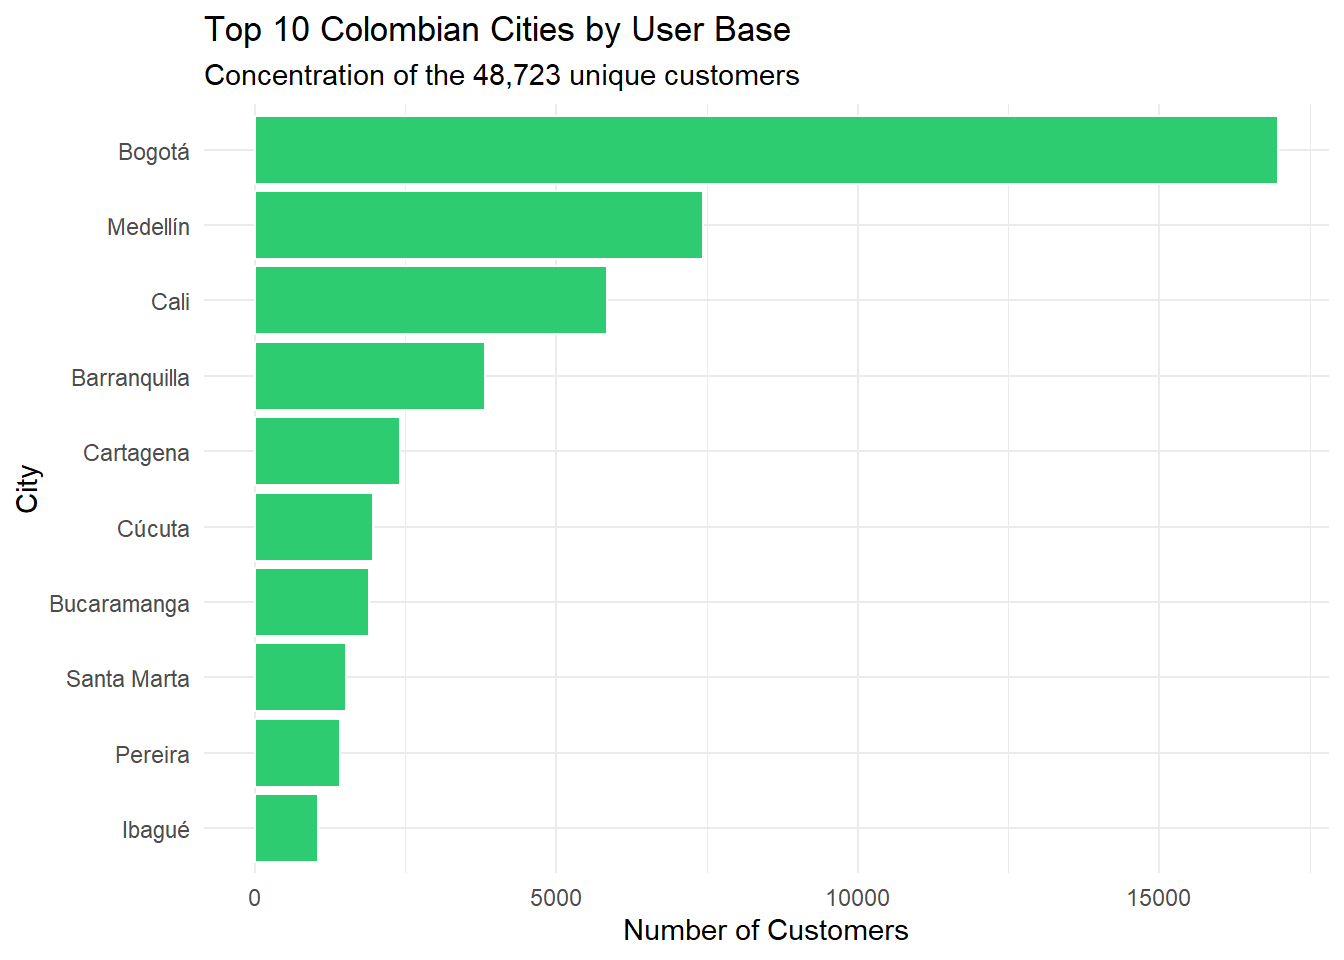
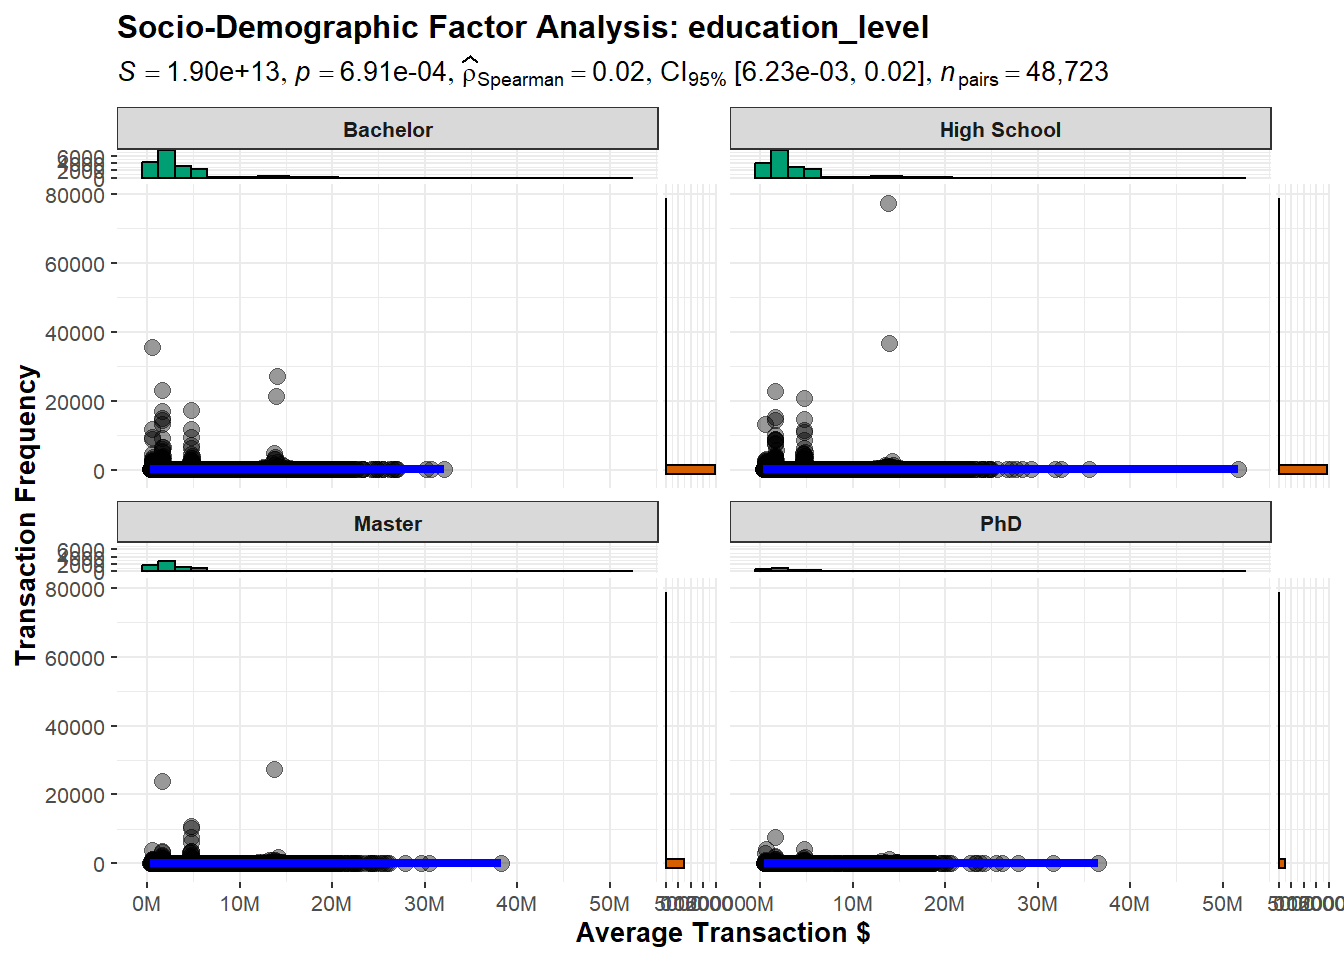
take-home exercise 02

diff --git a/_site/Take-home_ex/take-home_exercise02/take-home_exercise02.html b/_site/Take-home_ex/take-home_exercise02/take-home_exercise02.html
@@ -217,7 +217,12 @@ pre > code.sourceCode > span > a:first-child::before { text-decoration: underlin
   <li><a href="#our-data" id="toc-our-data" class="nav-link" data-scroll-target="#our-data">Our Data</a></li>
   <li><a href="#data-preparation" id="toc-data-preparation" class="nav-link" data-scroll-target="#data-preparation">Data Preparation</a></li>
   </ul></li>
-  <li><a href="#section" id="toc-section" class="nav-link" data-scroll-target="#section"></a></li>
+  <li><a href="#correlation" id="toc-correlation" class="nav-link" data-scroll-target="#correlation">Correlation</a>
+  <ul class="collapse">
+  <li><a href="#analyzing-how-education-level-affects-the-transaction-amount-vs.-frequency-behavior" id="toc-analyzing-how-education-level-affects-the-transaction-amount-vs.-frequency-behavior" class="nav-link" data-scroll-target="#analyzing-how-education-level-affects-the-transaction-amount-vs.-frequency-behavior">Analyzing how <em>Education Level</em> affects the Transaction Amount vs.&nbsp;Frequency behavior</a></li>
+  <li><a href="#analyzing-how-marital-status-affects-the-transaction-amount-vs.-frequency-behavior" id="toc-analyzing-how-marital-status-affects-the-transaction-amount-vs.-frequency-behavior" class="nav-link" data-scroll-target="#analyzing-how-marital-status-affects-the-transaction-amount-vs.-frequency-behavior">Analyzing how <em>Marital Status</em> affects the Transaction Amount vs.&nbsp;Frequency behavior</a></li>
+  <li><a href="#analyzing-how-gender-affects-the-transaction-amount-vs.-frequency-behavior" id="toc-analyzing-how-gender-affects-the-transaction-amount-vs.-frequency-behavior" class="nav-link" data-scroll-target="#analyzing-how-gender-affects-the-transaction-amount-vs.-frequency-behavior">Analyzing how <em>Gender</em> affects the Transaction Amount vs.&nbsp;Frequency behavior</a></li>
+  </ul></li>
   </ul>
 </nav>
     </div>
@@ -309,12 +314,81 @@ pre > code.sourceCode > span > a:first-child::before { text-decoration: underlin
 <span id="cb1-17"><a href="#cb1-17" aria-hidden="true" tabindex="-1"></a>  <span class="fu">mutate</span>(<span class="at">date =</span> <span class="fu">as.Date</span>(date, <span class="at">format =</span> <span class="st">"%m/%d/%Y"</span>)) <span class="sc">%&gt;%</span></span>
 <span id="cb1-18"><a href="#cb1-18" aria-hidden="true" tabindex="-1"></a>  <span class="fu">left_join</span>(customers, <span class="at">by =</span> <span class="st">"customer_id"</span>)</span></code></pre></div><button title="Copy to Clipboard" class="code-copy-button"><i class="bi"></i></button></div>
 </div>
+<p>The code chunk below will be used to install and load these packages in RStudio.</p>
+<div class="cell">
+<div class="code-copy-outer-scaffold"><div class="sourceCode cell-code" id="cb2"><pre class="sourceCode r code-with-copy"><code class="sourceCode r"><span id="cb2-1"><a href="#cb2-1" aria-hidden="true" tabindex="-1"></a>pacman<span class="sc">::</span><span class="fu">p_load</span>(<span class="st">"ggstatsplot"</span>, <span class="st">"plotly"</span>, <span class="st">"DT"</span>, <span class="st">"scales"</span>,<span class="st">"tidyverse"</span>)</span></code></pre></div><button title="Copy to Clipboard" class="code-copy-button"><i class="bi"></i></button></div>
+</div>
 </section>
 </section>
-<section id="section" class="level1">
-<h1></h1>
+<section id="correlation" class="level1">
+<h1>Correlation</h1>
+<section id="analyzing-how-education-level-affects-the-transaction-amount-vs.-frequency-behavior" class="level2">
+<h2 class="anchored" data-anchor-id="analyzing-how-education-level-affects-the-transaction-amount-vs.-frequency-behavior">Analyzing how <em>Education Level</em> affects the Transaction Amount vs.&nbsp;Frequency behavior</h2>
+<p>The function ‘a’ is the socio-demographic factor (e.g., “gender”, “income_bracket”)</p>
+<div class="cell">
+<div class="code-copy-outer-scaffold"><div class="sourceCode cell-code" id="cb3"><pre class="sourceCode r code-with-copy"><code class="sourceCode r"><span id="cb3-1"><a href="#cb3-1" aria-hidden="true" tabindex="-1"></a><span class="fu">options</span>(<span class="at">scipen =</span> <span class="dv">999</span>)</span>
+<span id="cb3-2"><a href="#cb3-2" aria-hidden="true" tabindex="-1"></a></span>
+<span id="cb3-3"><a href="#cb3-3" aria-hidden="true" tabindex="-1"></a>plot_behavior_correlation <span class="ot">&lt;-</span> <span class="cf">function</span>(a) {</span>
+<span id="cb3-4"><a href="#cb3-4" aria-hidden="true" tabindex="-1"></a>  <span class="fu">ggscatterstats</span>(</span>
+<span id="cb3-5"><a href="#cb3-5" aria-hidden="true" tabindex="-1"></a>    <span class="at">data =</span> customers, </span>
+<span id="cb3-6"><a href="#cb3-6" aria-hidden="true" tabindex="-1"></a>    <span class="at">x =</span> avg_tx_value,  </span>
+<span id="cb3-7"><a href="#cb3-7" aria-hidden="true" tabindex="-1"></a>    <span class="at">y =</span> tx_count,</span>
+<span id="cb3-8"><a href="#cb3-8" aria-hidden="true" tabindex="-1"></a>    <span class="at">type =</span> <span class="st">"nonparametric"</span>, </span>
+<span id="cb3-9"><a href="#cb3-9" aria-hidden="true" tabindex="-1"></a>    <span class="at">title =</span> <span class="fu">paste</span>(<span class="st">"Socio-Demographic Factor Analysis:"</span>, a),</span>
+<span id="cb3-10"><a href="#cb3-10" aria-hidden="true" tabindex="-1"></a>    <span class="at">xlab =</span> <span class="st">"Average Transaction $"</span>,</span>
+<span id="cb3-11"><a href="#cb3-11" aria-hidden="true" tabindex="-1"></a>    <span class="at">ylab =</span> <span class="st">"Transaction Frequency"</span></span>
+<span id="cb3-12"><a href="#cb3-12" aria-hidden="true" tabindex="-1"></a>  ) <span class="sc">+</span> </span>
+<span id="cb3-13"><a href="#cb3-13" aria-hidden="true" tabindex="-1"></a>    <span class="fu">facet_wrap</span>(<span class="fu">vars</span>(<span class="sc">!!</span><span class="fu">sym</span>(a))) <span class="sc">+</span></span>
+<span id="cb3-14"><a href="#cb3-14" aria-hidden="true" tabindex="-1"></a>    <span class="co"># This part cleans the x-axis</span></span>
+<span id="cb3-15"><a href="#cb3-15" aria-hidden="true" tabindex="-1"></a>    <span class="fu">scale_x_continuous</span>(</span>
+<span id="cb3-16"><a href="#cb3-16" aria-hidden="true" tabindex="-1"></a>      <span class="at">labels =</span> <span class="fu">label_number</span>(<span class="at">scale =</span> <span class="fl">1e-6</span>, <span class="at">suffix =</span> <span class="st">"M"</span>),</span>
+<span id="cb3-17"><a href="#cb3-17" aria-hidden="true" tabindex="-1"></a>      <span class="at">breaks =</span> <span class="fu">seq</span>(<span class="dv">0</span>, <span class="dv">50000000</span>, <span class="at">by =</span> <span class="dv">10000000</span>) <span class="co"># Optional: set breaks every 10M</span></span>
+<span id="cb3-18"><a href="#cb3-18" aria-hidden="true" tabindex="-1"></a>    )</span>
+<span id="cb3-19"><a href="#cb3-19" aria-hidden="true" tabindex="-1"></a>}</span></code></pre></div><button title="Copy to Clipboard" class="code-copy-button"><i class="bi"></i></button></div>
+</div>
+<div class="cell">
+<div class="code-copy-outer-scaffold"><div class="sourceCode cell-code" id="cb4"><pre class="sourceCode r code-with-copy"><code class="sourceCode r"><span id="cb4-1"><a href="#cb4-1" aria-hidden="true" tabindex="-1"></a><span class="fu">plot_behavior_correlation</span>(<span class="st">"education_level"</span>)</span></code></pre></div><button title="Copy to Clipboard" class="code-copy-button"><i class="bi"></i></button></div>
+<div class="cell-output-display">
+<div>
+<figure class="figure">
+<p><img src="take-home_exercise02_files/figure-html/unnamed-chunk-4-1.png" class="img-fluid figure-img" width="672"></p>
+</figure>
+</div>
+</div>
+</div>
+<p>The p-value = 0.00069, the result is <strong>statistically significant</strong>. There is a genuine relationship between transaction frequency and transaction amount across different education levels.</p>
+<p>Spearman’s Rho = 0.02. This is a <strong>very weak positive</strong> correlation. Generally, as transaction frequency increases, the average amount slightly increases, but the relationship is so weak that knowing one doesn’t really help to predict the other. In a fintech context, this suggests that high-frequency users (power users) aren’t necessarily the ones spending the largest amounts</p>
+</section>
+<section id="analyzing-how-marital-status-affects-the-transaction-amount-vs.-frequency-behavior" class="level2">
+<h2 class="anchored" data-anchor-id="analyzing-how-marital-status-affects-the-transaction-amount-vs.-frequency-behavior">Analyzing how <em>Marital Status</em> affects the Transaction Amount vs.&nbsp;Frequency behavior</h2>
+<div class="cell">
+<div class="code-copy-outer-scaffold"><div class="sourceCode cell-code" id="cb5"><pre class="sourceCode r code-with-copy"><code class="sourceCode r"><span id="cb5-1"><a href="#cb5-1" aria-hidden="true" tabindex="-1"></a><span class="fu">plot_behavior_correlation</span>(<span class="st">"marital_status"</span>)</span></code></pre></div><button title="Copy to Clipboard" class="code-copy-button"><i class="bi"></i></button></div>
+<div class="cell-output-display">
+<div>
+<figure class="figure">
+<p><img src="take-home_exercise02_files/figure-html/unnamed-chunk-5-1.png" class="img-fluid figure-img" width="672"></p>
+</figure>
+</div>
+</div>
+</div>
+<p>The analysis shows a statistically significant but <strong>negligible positive relationship (Spearman ρ = 0.02)</strong> between average transaction amount and transaction frequency across marital status groups. Visual inspection confirms that most customers cluster at low transaction values and frequencies, with a few extreme outliers. The pattern is consistent across divorced, married, single, and widowed groups, suggesting <strong>marital status does not meaningfully affect transaction behavior</strong>.</p>
+</section>
+<section id="analyzing-how-gender-affects-the-transaction-amount-vs.-frequency-behavior" class="level2">
+<h2 class="anchored" data-anchor-id="analyzing-how-gender-affects-the-transaction-amount-vs.-frequency-behavior">Analyzing how <em>Gender</em> affects the Transaction Amount vs.&nbsp;Frequency behavior</h2>
+<div class="cell">
+<div class="code-copy-outer-scaffold"><div class="sourceCode cell-code" id="cb6"><pre class="sourceCode r code-with-copy"><code class="sourceCode r"><span id="cb6-1"><a href="#cb6-1" aria-hidden="true" tabindex="-1"></a><span class="fu">plot_behavior_correlation</span>(<span class="st">"gender"</span>)</span></code></pre></div><button title="Copy to Clipboard" class="code-copy-button"><i class="bi"></i></button></div>
+<div class="cell-output-display">
+<div>
+<figure class="figure">
+<p><img src="take-home_exercise02_files/figure-html/unnamed-chunk-6-1.png" class="img-fluid figure-img" width="672"></p>
+</figure>
+</div>
+</div>
+</div>
+<p>The analysis shows a statistically significant but negligible positive relationship (Spearman ρ = 0.02) between average transaction value and transaction frequency across gender groups. Visual inspection of the marginal histograms confirms a heavy right-skew, with the vast majority of users—regardless of gender—clustering at low transaction values and frequencies. While extreme outliers exist, such as a high-frequency female “power user” and high-value male transactions, the overall pattern remains consistent across Female, Male, and Other groups, suggesting gender is not a primary differentiator for transaction behavior in this fintech ecosystem.</p>
 
 
+</section>
 </section>
 
 </main> <!-- /main -->
